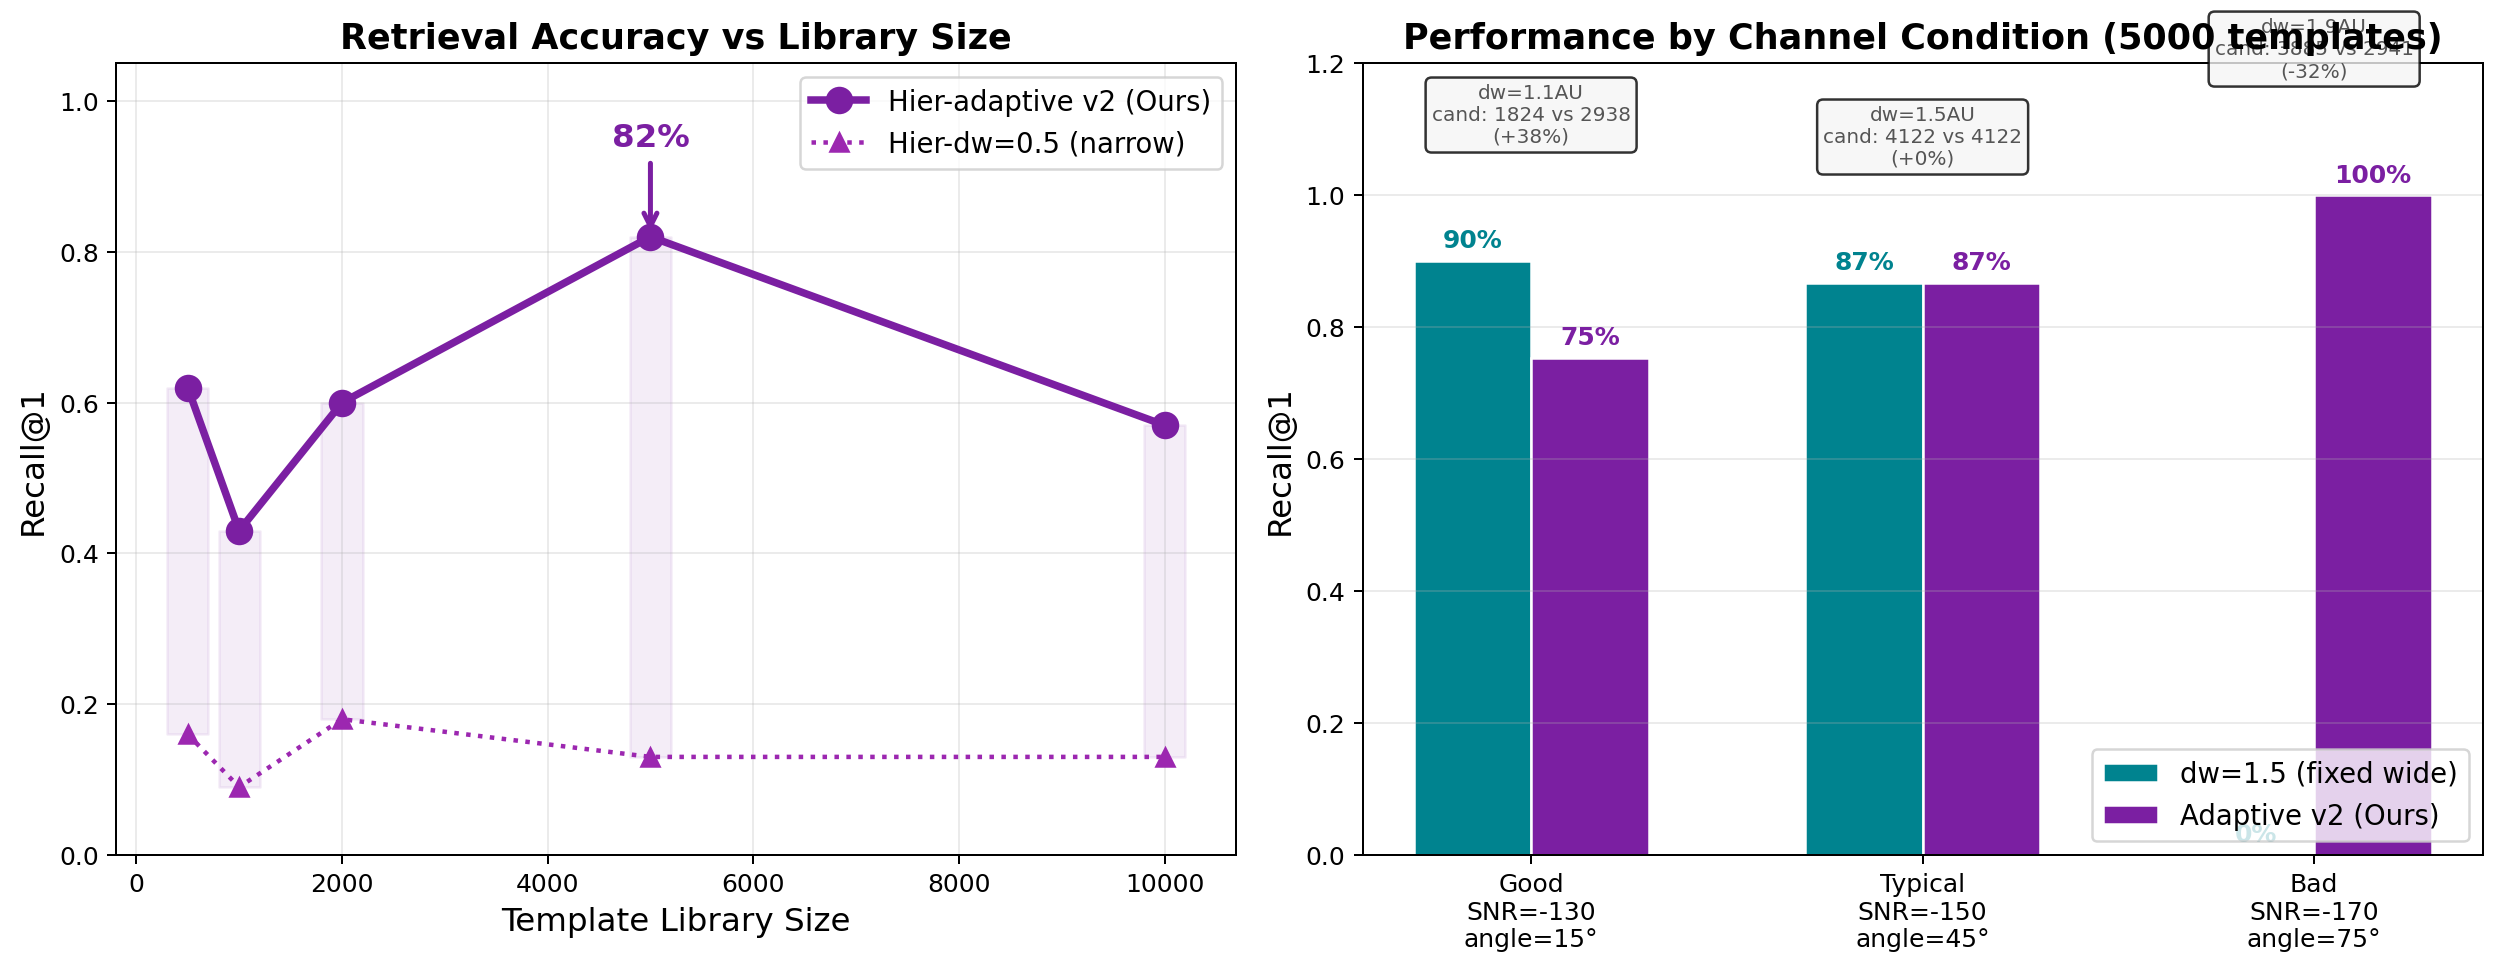
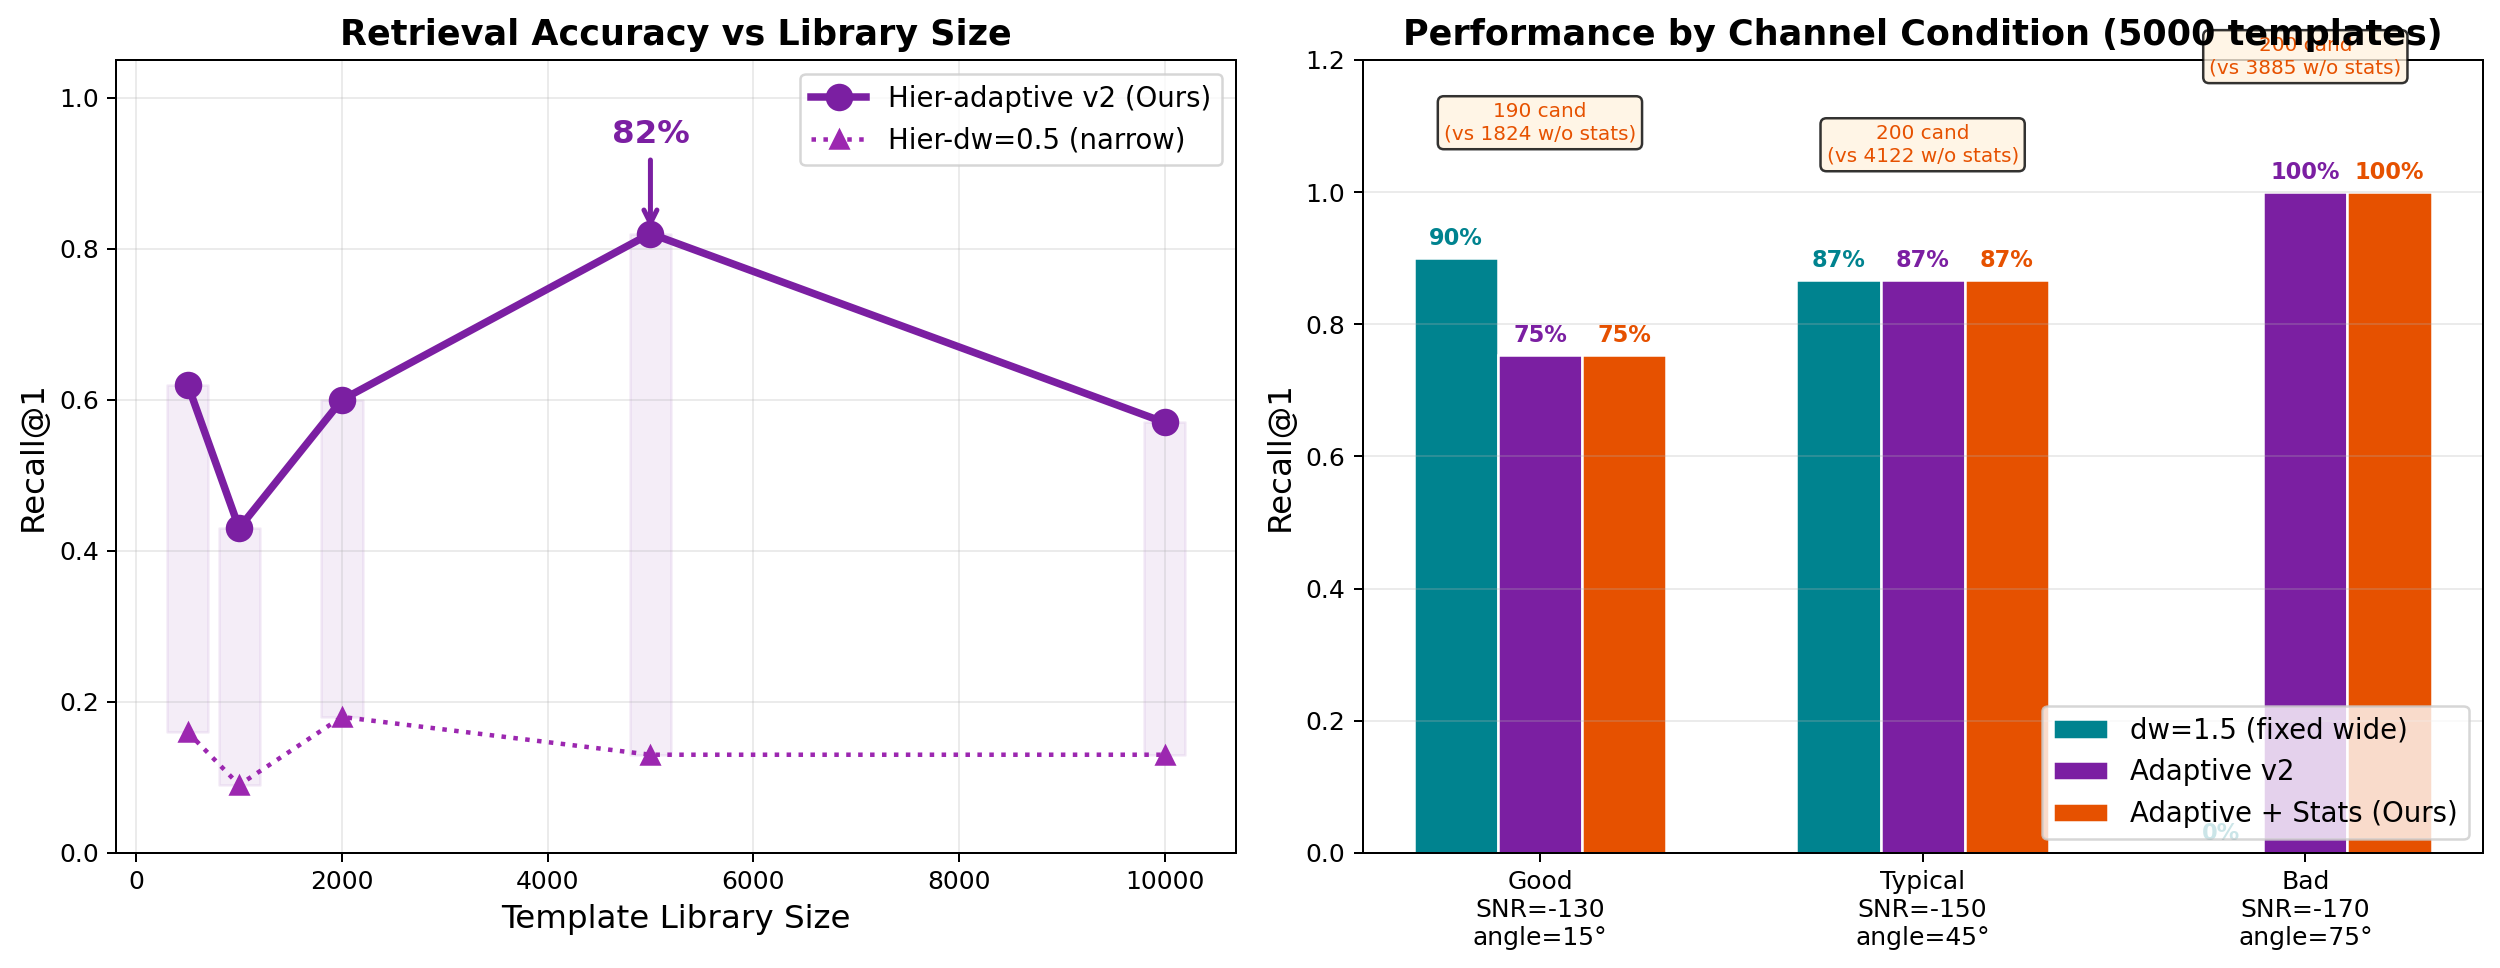
feat: 双粗筛(物理+统计特征), Recall不变+候选数降90-95%
KnowledgeBase: 新增stat_filter(), 用[mean,std,skew,kurt]过滤候选
HierarchicalRetriever: 新增stat_filter+stat_max_keep参数
exp08: 增加Adaptive+Stats方法对比
  - 统计过滤保Recall不变(75%/87%/100%)
  - 候选数从1824-4122降至190-200 (90-95%减少)
  - 允许开宽物理窗口保Recall, 统计过滤控效率

diff --git a/experiments/exp08_large_scale.py b/experiments/exp08_large_scale.py
@@ -98,6 +98,7 @@ def run_stratified_experiment(n_templates=5000, n_per_condition=150, seed=42):
     for label, snr_db, sun_angle in conditions:
         rec_w = []; cand_w = []
         rec_a = []; cand_a = []
+        rec_as = []; cand_as = []  # Adaptive + Stats (双粗筛)
         dw_a_vals = []
 
         for _ in range(n_per_condition):
@@ -109,7 +110,7 @@ def run_stratified_experiment(n_templates=5000, n_per_condition=150, seed=42):
             ch = DeepSpaceChannel(distance_au=physics['distance_au'], snr_db=snr_db)
             y_received = ch.forward(y_original)
             qd = physics['distance_au']
-            qa = sun_angle  # 固定太阳角
+            qa = sun_angle
 
             oracle_rr = oracle.retrieve(y_received, k=1)
             oracle_id = oracle_rr[0][0] if oracle_rr else None
@@ -131,12 +132,22 @@ def run_stratified_experiment(n_templates=5000, n_per_condition=150, seed=42):
             cand_a.append(h_a.last_coarse_count)
             dw_a_vals.append(dw)
 
+            # Adaptive + Stats (双粗筛: 物理窗口 → 统计过滤 → 精排)
+            h_as = HierarchicalRetriever(kb, coarse_k=coarse_k, fine_k=3, normalize=False,
+                                         distance_window=dw, angle_window=da,
+                                         stat_filter=True, stat_max_keep=200)
+            rr_as = h_as.retrieve(y_received, distance_au=qd, sun_angle=qa)
+            rec_as.append(1.0 if rr_as and rr_as[0][0] == oracle_id else 0.0)
+            cand_as.append(getattr(h_as, 'last_stat_filtered_count', h_as.last_coarse_count))
+
         results[label] = {
             'dw_adaptive': np.mean(dw_a_vals),
             'recall_wide': np.mean(rec_w),
             'recall_adaptive': np.mean(rec_a),
+            'recall_adaptive_stats': np.mean(rec_as),
             'cand_wide': np.mean(cand_w),
             'cand_adaptive': np.mean(cand_a),
+            'cand_adaptive_stats': np.mean(cand_as),
         }
 
     return results
@@ -178,33 +189,33 @@ def plot_combined(scaling, stratified):
     x = np.arange(len(labels))
     width = 0.3
 
-    # Recall bars
+    # Recall bars: 3 methods per condition
     rec_wide = [stratified[l]['recall_wide'] for l in labels]
     rec_adap = [stratified[l]['recall_adaptive'] for l in labels]
-    bars1 = ax2.bar(x - width/2, rec_wide, width, color='#00838f', edgecolor='white',
+    rec_astats = [stratified[l]['recall_adaptive_stats'] for l in labels]
+
+    width = 0.22
+    bars1 = ax2.bar(x - width, rec_wide, width, color='#00838f', edgecolor='white',
                     label='dw=1.5 (fixed wide)')
-    bars2 = ax2.bar(x + width/2, rec_adap, width, color='#7b1fa2', edgecolor='white',
-                    label='Adaptive v2 (Ours)')
+    bars2 = ax2.bar(x, rec_adap, width, color='#7b1fa2', edgecolor='white',
+                    label='Adaptive v2')
+    bars3 = ax2.bar(x + width, rec_astats, width, color='#e65100', edgecolor='white',
+                    label='Adaptive + Stats (Ours)')
 
-    # Annotate bars
-    for bar, val in zip(bars1, rec_wide):
-        ax2.text(bar.get_x() + bar.get_width()/2, bar.get_height() + 0.02,
-                f'{val:.0%}', ha='center', fontsize=10, fontweight='bold', color='#00838f')
-    for bar, val in zip(bars2, rec_adap):
-        ax2.text(bar.get_x() + bar.get_width()/2, bar.get_height() + 0.02,
-                f'{val:.0%}', ha='center', fontsize=10, fontweight='bold', color='#7b1fa2')
+    for bars, color in [(bars1, '#00838f'), (bars2, '#7b1fa2'), (bars3, '#e65100')]:
+        for bar in bars:
+            h = bar.get_height()
+            ax2.text(bar.get_x() + bar.get_width()/2, h + 0.02,
+                    f'{h:.0%}', ha='center', fontsize=9, fontweight='bold', color=color)
 
-    # Candidate count as text below
+    # Candidate count as text
     for i, label in enumerate(labels):
         s = stratified[label]
-        dw_val = s['dw_adaptive']
-        cand_saving = (s['cand_wide'] - s['cand_adaptive']) / max(s['cand_wide'], 1) * 100
-        ax2.text(i, max(rec_wide[i], rec_adap[i]) + 0.18,
-                f'dw={dw_val:.1f}AU\n'
-                f'cand: {s["cand_adaptive"]:.0f} vs {s["cand_wide"]:.0f}\n'
-                f'({cand_saving:+.0f}%)',
-                ha='center', fontsize=8, color='#555',
-                bbox=dict(boxstyle='round,pad=0.3', facecolor='#f5f5f5', alpha=0.8))
+        ax2.text(i, max(rec_wide[i], rec_adap[i], rec_astats[i]) + 0.18,
+                f'{s["cand_adaptive_stats"]:.0f} cand\n'
+                f'(vs {s["cand_adaptive"]:.0f} w/o stats)',
+                ha='center', fontsize=8, color='#e65100',
+                bbox=dict(boxstyle='round,pad=0.3', facecolor='#fff3e0', alpha=0.8))
 
     ax2.set_xticks(x)
     ax2.set_xticklabels(labels, fontsize=10)
@@ -243,7 +254,8 @@ if __name__ == '__main__':
     for label, s in stratified.items():
         dw = s['dw_adaptive']
         print(f"  {label.replace(chr(10),' ')}: dw={dw:.2f}AU, "
-              f"recall: wide={s['recall_wide']:.3f} adaptive={s['recall_adaptive']:.3f}, "
-              f"cand: wide={s['cand_wide']:.0f} adaptive={s['cand_adaptive']:.0f}")
+              f"wide={s['recall_wide']:.0%} adapt={s['recall_adaptive']:.0%} "
+              f"adapt+stats={s['recall_adaptive_stats']:.0%}, "
+              f"cand: {s['cand_adaptive']:.0f}->{s['cand_adaptive_stats']:.0f} (w/ stats)")
 
     plot_combined(scaling, stratified)

diff --git a/src/knowledge.py b/src/knowledge.py
@@ -156,6 +156,49 @@ class KnowledgeBase:
             return self._records[idx]
         return None
 
+    def stat_filter(
+        self,
+        y_query: np.ndarray,
+        candidate_ids: List[int],
+        stat_window: float = 3.0,
+        max_keep: int = 200,
+    ) -> List[int]:
+        """统计特征过滤：保留统计特征接近查询的候选.
+
+        对候选模板计算 [mean, std, skew, kurt] 欧氏距离，
+        按距离排序后保留前 max_keep 个。
+
+        Args:
+            y_query: 查询信号
+            candidate_ids: 候选模板的内部ID列表
+            stat_window: 统计特征距离阈值（标准差倍数），留作接口
+            max_keep: 最多保留多少个候选
+
+        Returns:
+            过滤后的内部ID列表
+        """
+        from scipy import stats as sp_stats
+        q_features = np.array([
+            float(np.mean(y_query)),
+            float(np.std(y_query)),
+            float(sp_stats.skew(y_query)),
+            float(sp_stats.kurtosis(y_query)),
+        ])
+
+        scored = []
+        for cid in candidate_ids:
+            record = self.get_record(cid)
+            if record is None:
+                continue
+            dist = float(np.sqrt(np.mean((q_features - record.stat_features) ** 2)))
+            scored.append((cid, dist))
+
+        if len(scored) <= max_keep:
+            return [cid for cid, _ in scored]
+
+        scored.sort(key=lambda x: x[1])
+        return [cid for cid, _ in scored[:max_keep]]
+
     @property
     def count(self) -> int:
         cursor = self.conn.execute('SELECT COUNT(*) FROM templates')

diff --git a/src/retrieval.py b/src/retrieval.py
@@ -181,6 +181,8 @@ class HierarchicalRetriever:
         angle_window: float = 15.0,
         phase_align: bool = False,
         dtw_window: Optional[int] = None,
+        stat_filter: bool = False,
+        stat_max_keep: int = 200,
     ):
         self.kb = kb
         self.coarse = CoarseRetriever(kb)
@@ -192,6 +194,8 @@ class HierarchicalRetriever:
         self.distance_window = distance_window
         self.angle_window = angle_window
         self.last_coarse_count = 0
+        self.stat_filter = stat_filter
+        self.stat_max_keep = stat_max_keep
 
     def retrieve(
         self,
@@ -212,6 +216,20 @@ class HierarchicalRetriever:
         self.last_coarse_count = len(candidates)
         if len(candidates) == 0:
             return []
+
+        # 统计特征过滤：物理粗筛 → 统计过滤 → 精排
+        if self.stat_filter and len(candidates) > self.stat_max_keep:
+            filtered_ids = self.kb.stat_filter(
+                y_query,
+                [c[0] for c in candidates],
+                max_keep=self.stat_max_keep,
+            )
+            # 重新构造候选列表
+            id_set = set(filtered_ids)
+            candidates = [(cid, score) for cid, score in candidates
+                         if cid in id_set]
+            self.last_stat_filtered_count = len(candidates)
+
         return self.fine.retrieve(y_query, candidates, k=self.fine_k)
 
 
